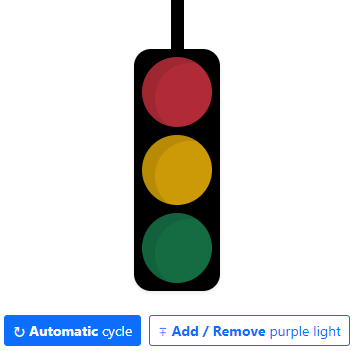
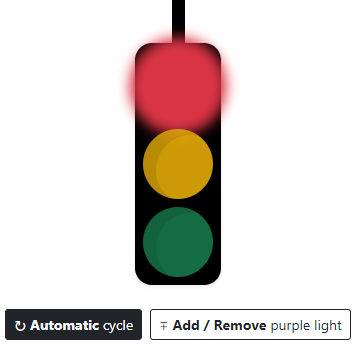
fix: css

diff --git a/src/js/component/TrafficLight.jsx b/src/js/component/TrafficLight.jsx
@@ -52,13 +52,13 @@ const TrafficLight = () => {
 			<div className="d-flex justify-content-center flex-wrap gap-2 mt-4">
 				<button
 					type="button"
-					className="btn btn-sm btn-primary shadow-none"
+					className="btn btn-sm btn-dark shadow-none"
 					onClick={AutomaticCycle}>
 					&#8635; <strong>Automatic</strong> cycle
 				</button>
 				<button
 					type="button"
-					className="btn btn-sm btn-outline-primary shadow-none"
+					className="btn btn-sm btn-outline-dark shadow-none"
 					onClick={() => AddNewLightColor("purple")}>
 					&#8723; <strong>Add / Remove</strong> purple light
 				</button>

diff --git a/src/styles/index.css b/src/styles/index.css
@@ -21,7 +21,7 @@
 .selected {
   opacity: 100%;
   box-shadow: 0px 0px 13px 14px;
-  animation: flash 2s linear infinite;
+  animation: flash 1.5s linear infinite;
 }
 
 .red {
@@ -42,6 +42,6 @@
 
 @keyframes flash {
   50% {
-    opacity: 0.9;
+    opacity: 0.85;
   }
 }
